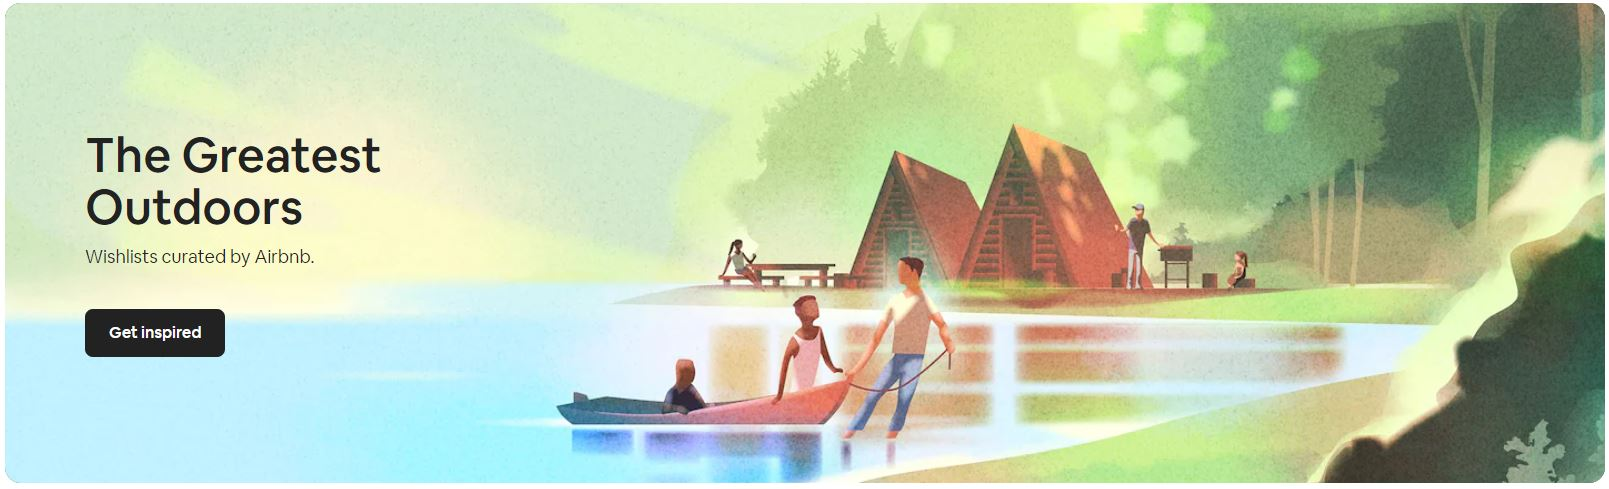
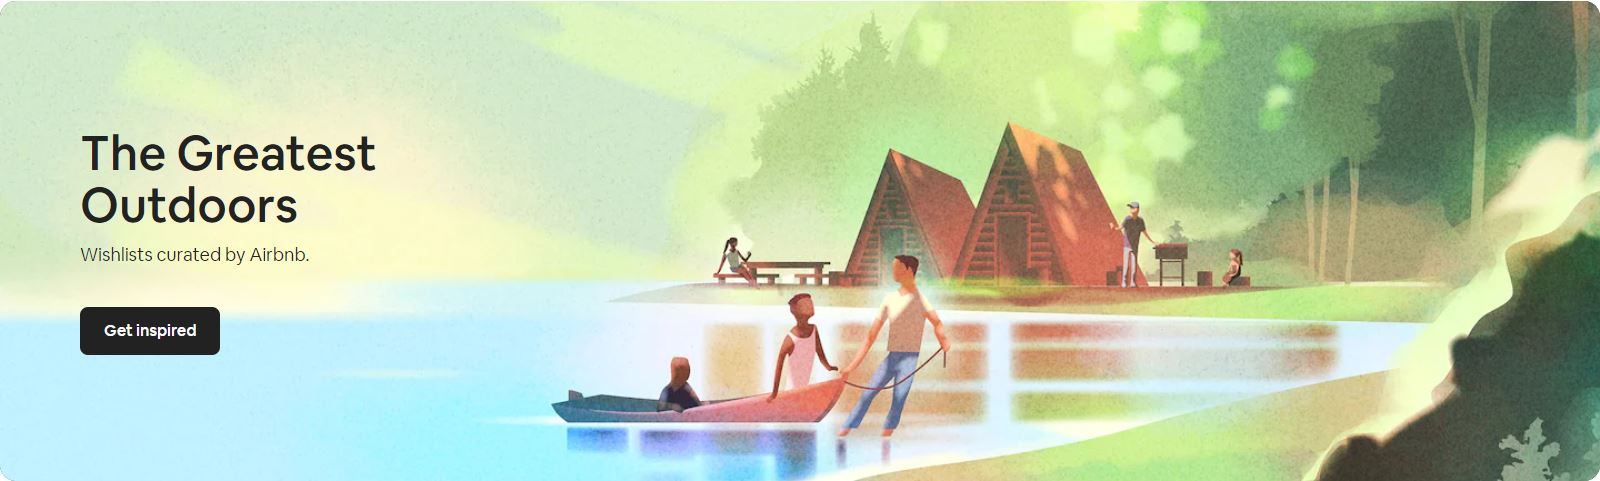
future getaways done :)

diff --git a/index.html b/index.html
@@ -359,7 +359,7 @@
     <div class="container-lg">
       <img
         src="/assets/homepage/g1.jpg"
-        class="rounded-3 g1"
+        class="rounded-3 w-100"
         alt="seaside picture"
       />
     </div>
@@ -418,6 +418,216 @@
         </div>
       </div>
     </section>
+
+    <div class="spacer100"></div>
+
+    <!-- Try hosting -->
+
+    <div class="container-lg">
+      <img
+        src="/assets/homepage/t1.jpg"
+        class="rounded-3 w-100"
+        alt="seaside picture"
+      />
+    </div>
+
+    <div class="spacer100"></div>
+
+    <!-- Future getaways -->
+
+    <section>
+      <div class="container-lg">
+        <h2 class="h1 mb-4">Inspiration for future getaways</h2>
+        <span class="pe-2">Historic destinations</span>
+        <span class="px-2">Coastal destinations</span>
+        <span class="px-2">Island destinations</span>
+        <span class="px-2">Lake destinations</span>
+        <span class="ps-2">Other popular destinations</span>
+        <hr />
+        <div class="row mb-3">
+          <div class="col-md-6 col-lg-3">
+            Firenze <br />
+            <span class="text-muted fs-6">Italy</span>
+          </div>
+          <div class="col-md-6 col-lg-3">
+            Madrid <br />
+            <span class="text-muted fs-6">Spain</span>
+          </div>
+          <div class="col-md-6 col-lg-3">
+            New York <br />
+            <span class="text-muted fs-6">Usa</span>
+          </div>
+          <div class="col-md-6 col-lg-3">
+            Bali <br />
+            <span class="text-muted fs-6">Indonesia</span>
+          </div>
+        </div>
+        <div class="row mb-3">
+          <div class="col-md-6 col-lg-3">
+            Tokyo <br />
+            <span class="text-muted fs-6">Japan</span>
+          </div>
+          <div class="col-md-6 col-lg-3">
+            Toronto <br />
+            <span class="text-muted fs-6">Canada</span>
+          </div>
+          <div class="col-md-6 col-lg-3">
+            Amsterdam <br />
+            <span class="text-muted fs-6">Netherland</span>
+          </div>
+          <div class="col-md-6 col-lg-3">
+            Danzika <br />
+            <span class="text-muted fs-6">Poland</span>
+          </div>
+        </div>
+        <div class="row mb-3">
+          <div class="col-md-6 col-lg-3">
+            Moscow <br />
+            <span class="text-muted fs-6">Russia</span>
+          </div>
+          <div class="col-md-6 col-lg-3">
+            Beijing <br />
+            <span class="text-muted fs-6">China</span>
+          </div>
+          <div class="col-md-6 col-lg-3">
+            Mexico City <br />
+            <span class="text-muted fs-6">Mexico</span>
+          </div>
+          <div class="col-md-6 col-lg-3">
+            Lima <br />
+            <span class="text-muted fs-6">Peru</span>
+          </div>
+        </div>
+        <div class="row mb-3">
+          <div class="col-md-6 col-lg-3">
+            Cartagena <br />
+            <span class="text-muted fs-6">Colombia</span>
+          </div>
+          <div class="col-md-6 col-lg-3">
+            Las Palmas <br />
+            <span class="text-muted fs-6">Spain</span>
+          </div>
+          <div class="col-md-6 col-lg-3">
+            Ibiza <br />
+            <span class="text-muted fs-6">Spain</span>
+          </div>
+          <div class="col-md-6 col-lg-3">
+            Palermo <br />
+            <span class="text-muted fs-6">Italy</span>
+          </div>
+        </div>
+        <div class="row mb-3">
+          <div class="col-md-6 col-lg-3">
+            Rotterdam <br />
+            <span class="text-muted fs-6">Netherland</span>
+          </div>
+          <div class="col-md-6 col-lg-3">
+            Saint Petersburg <br />
+            <span class="text-muted fs-6">Italy</span>
+          </div>
+          <div class="col-md-6 col-lg-3">
+            Rio de Janeiro <br />
+            <span class="text-muted fs-6">Brazil</span>
+          </div>
+          <div class="col-md-6 col-lg-3">
+            Sucre <br />
+            <span class="text-muted fs-6">Bolivia</span>
+          </div>
+        </div>
+        <div class="row mb-3">
+          <div class="col-md-6 col-lg-3">
+            Odessa <br />
+            <span class="text-muted fs-6">Czech Republic</span>
+          </div>
+          <div class="col-md-6 col-lg-3">
+            Madrid <br />
+            <span class="text-muted fs-6">Spagna</span>
+          </div>
+          <div class="col-md-6 col-lg-3">
+            Medellin <br />
+            <span class="text-muted fs-6">Colombia</span>
+          </div>
+          <div class="col-md-6 col-lg-3">
+            Tijuana <br />
+            <span class="text-muted fs-6">Mexico</span>
+          </div>
+        </div>
+        <div class="row mb-3">
+          <div class="col-md-6 col-lg-3">
+            Los Angeles <br />
+            <span class="text-muted fs-6">Usa</span>
+          </div>
+          <div class="col-md-6 col-lg-3">
+            Miami <br />
+            <span class="text-muted fs-6">Usa</span>
+          </div>
+          <div class="col-md-6 col-lg-3">
+            Istanbul <br />
+            <span class="text-muted fs-6">Turkey</span>
+          </div>
+          <div class="col-md-6 col-lg-3">
+            Athens <br />
+            <span class="text-muted fs-6">Greece</span>
+          </div>
+        </div>
+        <div class="row mb-3">
+          <div class="col-md-6 col-lg-3">
+            Bangkok <br />
+            <span class="text-muted fs-6">Thailand</span>
+          </div>
+          <div class="col-md-6 col-lg-3">
+            Pattaya <br />
+            <span class="text-muted fs-6">Thailand</span>
+          </div>
+          <div class="col-md-6 col-lg-3">
+            Berlin <br />
+            <span class="text-muted fs-6">Germany</span>
+          </div>
+          <div class="col-md-6 col-lg-3">
+            Bucharest <br />
+            <span class="text-muted fs-6">Romania</span>
+          </div>
+        </div>
+        <div class="row mb-3">
+          <div class="col-md-6 col-lg-3">
+            Budapest <br />
+            <span class="text-muted fs-6">Hungary</span>
+          </div>
+          <div class="col-md-6 col-lg-3">
+            Caracas <br />
+            <span class="text-muted fs-6">Venezuela</span>
+          </div>
+          <div class="col-md-6 col-lg-3">
+            Dublin <br />
+            <span class="text-muted fs-6">Ireland</span>
+          </div>
+          <div class="col-md-6 col-lg-3">
+            Hanoi <br />
+            <span class="text-muted fs-6">Vietnam</span>
+          </div>
+        </div>
+        <div class="row mb-3">
+          <div class="col-md-6 col-lg-3">
+            Helsinki <br />
+            <span class="text-muted fs-6">Finland</span>
+          </div>
+          <div class="col-md-6 col-lg-3">
+            London <br />
+            <span class="text-muted fs-6">UK</span>
+          </div>
+          <div class="col-md-6 col-lg-3">
+            Monaco <br />
+            <span class="text-muted fs-6">Monaco</span>
+          </div>
+          <div class="col-md-6 col-lg-3">
+            Nassau <br />
+            <span class="text-muted fs-6">Bahamas</span>
+          </div>
+        </div>
+      </div>
+    </section>
+
+    <div class="span100"></div>
 
     <!-- HTML & CSS EXERCISES -->
 

diff --git a/styles.css b/styles.css
@@ -70,7 +70,3 @@ body {
 .spacer400 {
   height: 400px;
 }
-
-.g1 {
-  width: 100%;
-}
